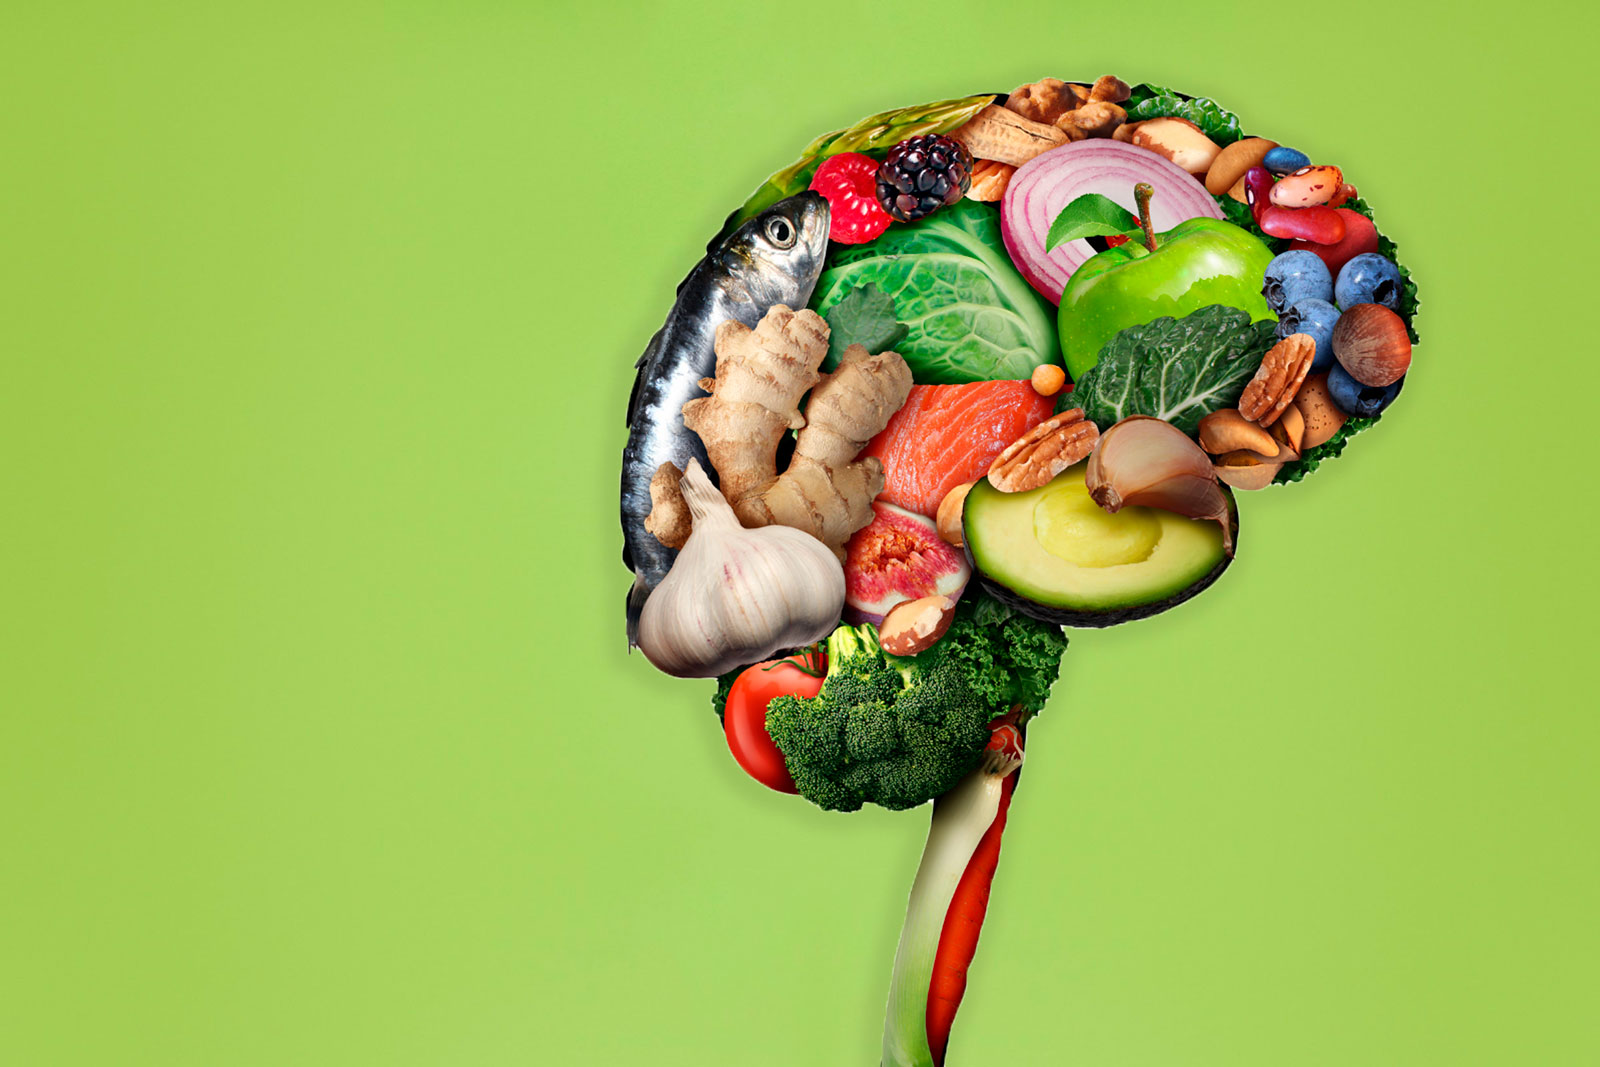
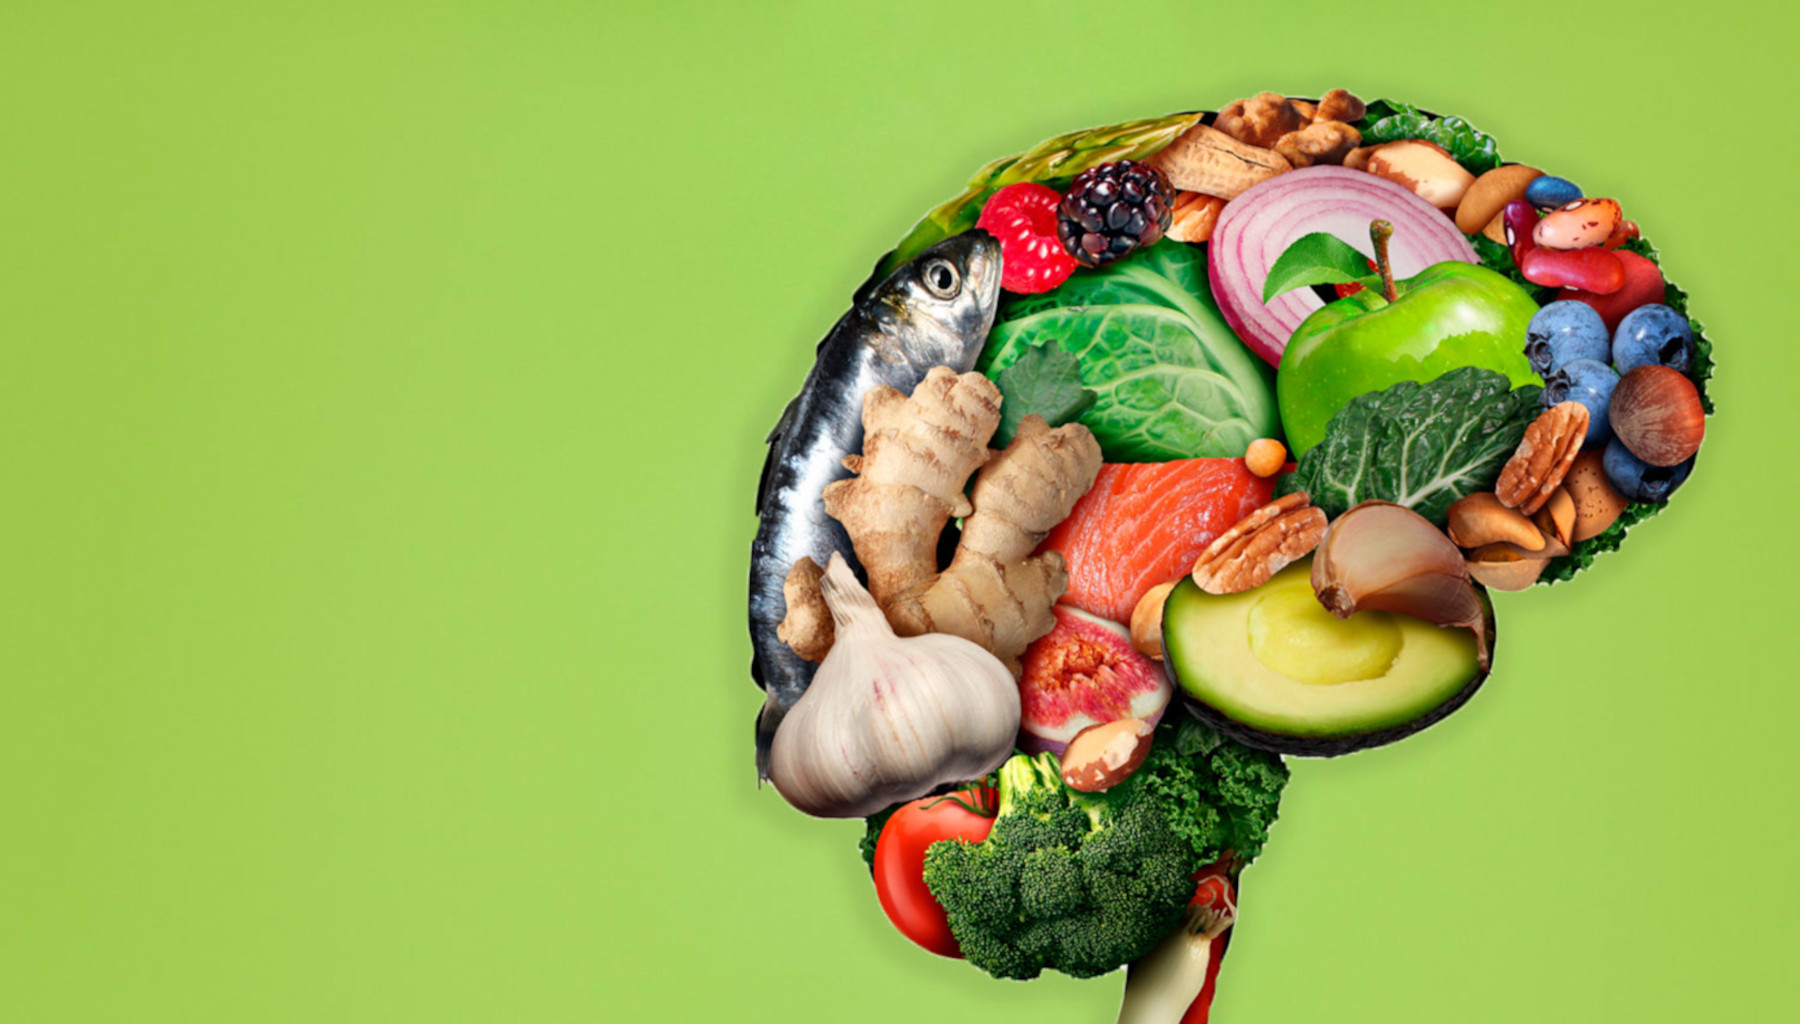
Artikel 3 almost Ready.

diff --git a/src/artikel3.html b/src/artikel3.html
@@ -5,16 +5,16 @@
     <meta charset="UTF-8">
     <link rel="stylesheet" href="/css/ArtikelStyle.css">
     <link rel="stylesheet" href="/css/NavBar.css">
-    <title>Hvorfor er madspild et problem?</title>
+    <title>Kampen mod madspild er på rette vej</title>
 </head>
 <body>
 <main class="hero-section">
     <style>
         .hero-section {
-            background-image: url(/images/staticimages/Background/grønsager.jpg);
-            background-size: cover;
+            background-image: url(/images/staticimages/Background/hjernemad.jpg);
             background-attachment: fixed;
-            background-position: bottom;
+            background-size: cover;
+            background-position: center;
         }
     </style>
 
@@ -25,7 +25,7 @@
             <h1 class="maintext">
                 <style>
                     .maintext::after {
-                        content: "Hvorfor er madspild et problem?";
+                        content: "Kampen mod madspild er på rette vej";
                         display: flex;
                         color: #F5F3ED;
                         font-size: 60px;
@@ -56,17 +56,18 @@
 
             <ul class="info">
                 <li class="category">Madspild</li>
-                <li class="reading-time">Læsetid: 10 Min</li>
+                <li class="reading-time">Læsetid: 7 Min</li>
             </ul>
-            <h2 class="header-two">1/3 af alle de fødevarer bliver smidt ud</h2>
+            <h2 class="header-two">Vi smider 9.730 fyldte indkøbsvogne ud hver dag</h2>
             <p class="summary">
-                1/3 af alle de fødevarer, der bliver produceret på verdensplan, bliver smidt ud uden at blive spist. Det
-                er et stort problem, og derfor skal vi alle, både virksomheder og forbrugere, forsøge at undgå madspild.
+                Hvad der svarer til 9.730 fyldte indkøbsvogne hver eneste dag. Så meget mad smider vi årligt ud i
+                Danmark. Det voldsomme spild har fået forbrugere, fødevareproducenter, supermarkeder og restauranter til
+                at gå ind i kampen mod madspild.
             </p>
             <ul class="breadcrumb">
                 <li><a href="index.html">Hjem</a></li>
                 <li><a href="artikler.html">Artikler</a></li>
-                <li>Hvorfor er madspild et problem?</li>
+                <li>Kampen mod madspild er på rette vej</li>
             </ul>
         </div>
         <div class="article-section-box">
@@ -77,106 +78,100 @@
                 </div>
                 <div class="paragraf-box">
                     <h2 class="article-header first-header">
-                        Madspild er et stort klimaproblem
+                        Lokalt og globalt problem
                     </h2>
                     <p class="box-paragraf">
-                        Mad, der bliver produceret, men ikke bliver spist, påvirker klimaet og miljøet negativt uden at
-                        føre noget som helst godt med sig. Ifølge FNs landbrugsorganisation, FAO, er det faktisk sådan,
-                        at 1/3 af alle de fødevare, der bliver produceret på verdensplan, bliver smidt ud, svarende til
-                        1.3 mia. ton mad. FAO estimerer, at produktionen af fødevarer, som bliver smidt uden at blive
-                        spist, udleder 3.3 gigaton CO2e i atmosfæren.
+                        I 2008 startede Selina Juul forbrugerorganisationen Stop Spild Af Mad. Siden er budskabet blevet
+                        modtaget stadig mere positivt af forbrugere, fødevareproducenter, supermarkeder, kantiner og
+                        restauranter, som nu alle, på hver sin måde, bekæmper madspild. Kampen mod madspild ifølge
+                        Selina Juul er kort sagt et sted, hvor vi alle kan gøre en konkret forskel for miljø og moral –
+                        samtidig med at vi sparer penge.
                         <br> <br>
-                        Man estimerer også, at efter landene USA og Kina, er fænomenet madspild, den største CO2e synder
-                        på jordkloden.
+                        Alle kan forholde sig til at stoppe med at spilde mad. Når man spilder mad, smider man sin tid
+                        og sine penge i skraldespanden, udover at man spilder naturens ressourcer. Ved at stoppe
+                        madspild hjælper man både sin egen husholdning og mindsker et lokalt og globalt problem,«
+                        forklarer Selina Juul, stifter og bestyrelsesformand af Stop Spild Af Mad.
                     </p>
                 </div>
             </div>
             <div class="paragraf-box">
                 <p class="paragraf">
-                    Kort sagt, vi skal begrænse vores madspild. Det er ganske enkelt sund fornuft, både ud fra et
-                    globalt miljøperspektiv, men også set fra en helt almindelig forbrugers pengepung. Og madspild
-                    ligger da også mange danskere på sinde. Faktisk viser en undersøgelse fra Karolines Køkken at hele 9
-                    ud af 10 danskere gerne vil mindske madspild.
-                    <br> <br>
-                    Det er en agenda, som Arla til fulde deler. Der er ikke noget mere demotiverende end at producere
-                    mad, som ikke bliver spist, og derfor har vi sat en målsætning om, at reducere madspild i
-                    produktionsleddet med 50% i perioden fra 2015 til 2030. Vi optimerer i hele vores forsyningskæde, i
-                    produktionen og i vores leverancer til detailhandlen og foodservice, så mindst muligt går til
-                    spilde.
-                    <br> <br>
-                    Samtidig har vi sat en række initiativer i gang, som skal gøre det nemmere for de danske forbrugerne
-                    at undgå at smide fødevarer ud. I dag sker 89 procent af madspildet i Danmark i husholdningerne.
+                    I dag finder kampen mod madspild ikke kun sted i Danmark. Bl.a. er en tv-dokumentar om Stop Spild Af
+                    Mad blevet vist på BBC og efterfølgende vist mere end 28 millioner gange på Facebook. Senest har CNN
+                    også lavet TV dokumentar om Stop Spild Af Mad.
+
                 </p>
             </div>
             <div class="header2-box">
                 <h2 class="article-header">
-                    Al madspild registreres
+                    Det går fremad
                 </h2>
             </div>
             <div class="paragraf-box">
                 <p class="paragraf">
-                    Selvfølgelig er det svært at undgå madspild, både derhjemme, men også hos os som fødevarevirksomhed.
-                    Der kan ske fejl med overproduktion og fejlbestillinger og produktion, så der produceres mere end
-                    det reelle forbrug ude i butikkerne. Og der kan ske fejl med emballager, som bliver forbyttet, så
-                    produkterne ikke kan sælges.
+                    Det har fra starten været Stop Spild Af Mad’s mission at forebygge og minimere madspild i hele
+                    fødevarekæden fra jord til bord gennem oplysning, formidling, kampagner, bøger, events og deltagelse
+                    i den politiske debat.
                     <br> <br>
-                    Hver eneste gang, vi hos Arla smider mad ud fra produktionsleddet, bliver det registreret. Det gør
-                    vi for at forsøge at forhindre, at det sker igen. En medarbejder har titlen af ’Waste Champion’ og
-                    gennemgår alle registreringer af spild. Samtidig udarbejdes der hver eneste måned en rapport over
-                    spildet.
+                    Indsatsen har båret frugt. Ifølge en nylig undersøgelse fra Danmarks Statistik for Stop Spild Af Mad
+                    udført i forbindelse med Folkemødet, går kampen mod madspild i den rigtige retning. Op mod halvdelen
+                    af danskere (44,5%) siger, at deres husstand har større fokus på madspild i dag end for 1 år siden.
                     <br> <br>
-                    En af de nye metoder, Arla bruger for at bekæmpe madspild, er at bruge kunstig intelligens til at
-                    forudse behovet for et bestemt produkt. En computer udregner meget præcise behovsanalyser ud fra en
-                    masse input. Når solen skinner er det til at forudse, at mange vil have Koldskål, men hvor meget?
-                    Programmet bliver hele tiden bedre, så vi kan producere mere præcist det, butikkerne efterspørger.
+                    Især yngre danskere (i alderen 16 til 29 år), folk med videregående uddannelser, kvinder samt
+                    nordjyder ifølge undersøgelsen optaget af indsatsen mod madspild.
                     <br> <br>
-                    Der er også månedlige madspilds-møder internt i Arla, der evaluerer om det går hurtigt nok med at få
-                    nedbragt spildet. Samtidig ser vi løbende på nye idéer og muligheder for nye tiltag.
+                    49,9% af danskere har fortsat det samme fokus på madspild i dag som for 1 år siden. Beskedne 2,5%
+                    svarer, at de slet ikke har fokus på madspild – og kun 0,3% har mindre fokus på madspild i dag end
+                    for 1 år siden.
                     <br> <br>
-                    Et af de nye initiativer er såkaldte ’waste talks’, hvor medarbejdere samles på tværs af afdelinger
-                    for bedst muligt at bruge hinandens erfaringer og best practise. På den måde kan vi optimere kampen
-                    for at forhindre madspild.
+                    <em> <strong> "Vi er i dén grad på den rette vej. Forbrugerne har taget kampen op mod madspild, men
+                        forbrugerne
+                        gør det ikke alene. Det er vigtigt at vi også fremadrettet står sammen mod madspild, uanset om
+                        vi er forbrugere, producenter eller forhandlere af mad og fødevarer" </strong></em>siger Selina
+                    Juul.
 
                 </p>
             </div>
             <div class="big-image">
-                <img src="/images/2400_Hvorfor-er-madspild-et-problem_gammel_mad.jpg" class="big-images"
-                     alt="Stop Madspild">
-                <p class="caption">Fotograf: MADS JENSEN/RITZAU SCANPIX</p>
+                <img src="/images/selinaJuul.jpg" class="big-images"
+                     alt="Selina Juul i kampen mod madspild">
+                <p class="caption">Selina Juul, stifter og bestyrelsesformand af Stop Spild Af Mad. Foto: Andreas Mikkel
+                    Hansen</p>
             </div>
 
             <div class="header2-box">
                 <h2 class="article-header">
-                    Samarbejde med fødevarebanken
+                    Forbrugeren i fokus
                 </h2>
             </div>
             <div class="paragraf-box">
                 <p class="paragraf">
-                    Når det ikke er muligt at sælge vores fødevarer, for eksempel fordi vi ved en fejl har produceret
-                    for meget, forsøger vi at behandle maden som en ressource, der kan genanvendes eller genbruges i
-                    stedet for bare at smide den ud.
+                    I det fremadrettede arbejde vil Stop Spild Af Mad fortsat have fokus på forbrugeren. For erfaringen
+                    er, at kampen mod madspild først og fremmest sker med indkøbskurven i hånden og hjemme i vores
+                    køkken. Dertil kommer at det fortsat er hos forbrugerne vi ser det største madspild, viser tal fra
+                    Miljøstyrelsen.
                     <br> <br>
-                    Derfor har vi samarbejdet med Fødevarebanken siden 2012, og sikret socialt udsatte danskere tonsvis
-                    af gode mejeriprodukter, som ellers kunne være gået til spilde.
-                    <br> <br>
-                    Madspildsproblemet er en massiv udfordring, som vi hos Arla hele tiden arbejder på at gøre mindre,
-                    men vi kan ikke løse det alene.
+                    <em> <strong>"Det er forbrugerne, der skaber en bevægelse, som smitter af på resten af værdikæden,
+                        både supermarkeder, restauranter og fødevareproducenter. Derfor vil vi fortsat have forbrugeren
+                        i centrum for vores arbejde, samtidig med at vi styrker samarbejdet med de andre dele af
+                        fødevarekæden" </strong> </em>
+                    siger Selina Juul.
+
                 </p>
             </div>
 
             <div class="header2-box">
                 <h2 class="article-header">
-                    Danmark mod madspild
+                    Fem gode råd: Mindre madspild
                 </h2>
             </div>
             <div class="paragraf-box">
-                <p class="paragraf">
-                    Arla er på den baggrund gået sammen i et partnerskab med en række virksomheder under overskriften »Danmark mod madspild«. Miljø-og Fødevareministeriet har tilsluttet sig initiativet, ligesom interesseorganisationerne Stop Spild af Mad og Fødevarebanken er involveret.
-                    <br> <br>
-                    Initiativet har sit afsæt i FN’s Verdensmål for bæredygtig udvikling, hvor det globale madspild pr. indbygger skal halveres inden 2030. Og der er også plads til forbedringer i Danmark, hvor vi hvert år smider mere end 700.000 tons fødevarer væk. Ved at reducere dette tal vil Danmark kunne forbedre klimaindsatsen gennem en mindre udledning af CO2e, sikre bedre udnyttelse af jordens ressourcer og samtidig bidrage positivt til den danske økonomi.
-                    <br> <br>
-                    De første skridt består i al sin enkelthed i, at alle deltagere hver især forpligter sig til at måle og offentliggøre fremskridtet i forhold til madspild en gang om året. Målt efter den samme standard og med det erklærede mål at nedbringe sit eget madspild med 50 procent fra 2018 til 2030.
-                </p>
+                <ol class="numbered-list">
+                    <li class="numberd-li">Planlægning er et godt våben i kampen mod madspild. Lav en madplan og en
+                        indkøbsliste inden du køber ind. Eller endnu nemmere: Tag din smartphone og tag et billede af
+                        dit køleskabsindhold. Så ved du hvad du i forvejen har
+                    </li>
+                </ol>
             </div>
             <div class="header2-box">
                 <h2 class="article-header">

diff --git a/css/ArtikelStyle.css b/css/ArtikelStyle.css
@@ -35,7 +35,7 @@ body {
 
 .mainheader {
     width: 100%;
-    height: 730px;
+    height: 800px;
     display: flex;
 
 
@@ -87,7 +87,7 @@ h2 {
 .wrapper {
     margin-left: 100px;
     margin-right: 100px;
-    padding-left: 100px;
+    padding-left: 5%;
     padding-right: 50%;
 
 }
